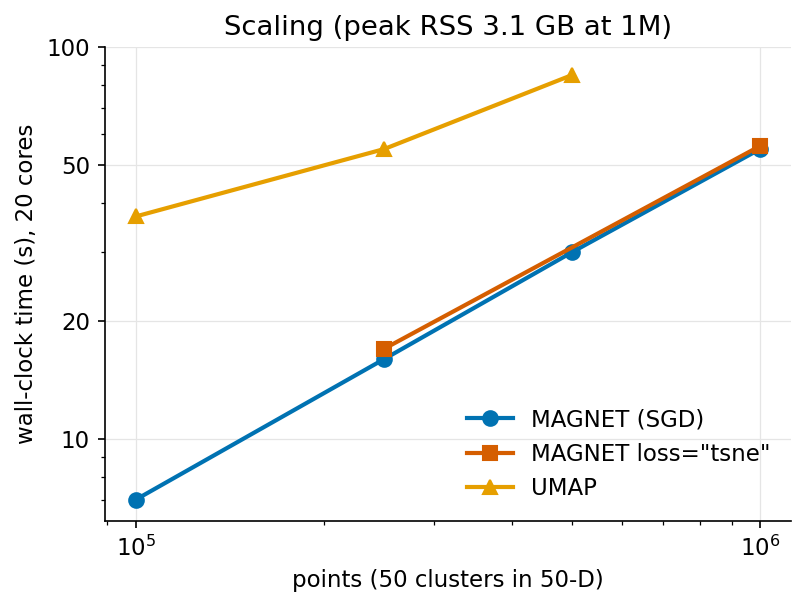
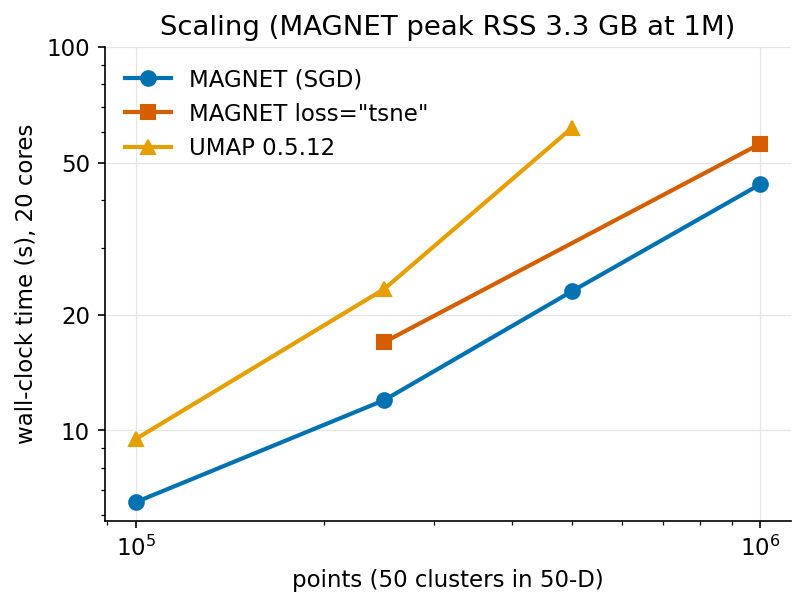
Benchmark against umap-learn 0.5.12 / pynndescent 0.7.0 with a correct timing protocol: numba warm-up on the data's dtype, 6000 points (NN-descent path) and the same random_state setting as the timed call; UMAP/densMAP without random_state (their parallel layout). Corrected numbers: UMAP MNIST 11 s 

diff --git a/paper/main.tex b/paper/main.tex
@@ -26,7 +26,7 @@ with one exponent: the near field of the attraction and the far field of the rep
 $L_1$ point ($b = 1/2$) under crowding and the $L_2$ point ($b = 1$) without, with a step at intrinsic
 dimension $q = m$; the repulsion is scale-free at $b_r = m/2$ (Cauchy in 2-D).
 (3) Splitting the exponent, a native neighbour search and a lock-free SGD give a layout of MNIST 70k in
-4.4~s with the best global structure of eleven methods; an FFT-exact repulsion gives $t$-SNE's local
+4.4~s (UMAP 0.5.12: 11~s) with the best global structure of eleven methods; an FFT-exact repulsion gives $t$-SNE's local
 structure in 9~s; their sequence (\texttt{loss="hybrid"}) leads both axes at once: 15-NN preservation
 0.353 (scikit-learn $t$-SNE 0.350, 196~s) with distance Spearman 0.444 (SGD 0.413) in 12.5~s.
 (4) The fade between local and global structure exists across the optimiser's scales, not inside one loss.
@@ -49,8 +49,8 @@ structure in 9~s; their sequence (\texttt{loss="hybrid"}) leads both axes at onc
 \centering\includegraphics[width=\textwidth]{layouts_mnist.png}
 \caption{MNIST 70k under six methods, same seed. Top: UMAP, openTSNE (FIt-SNE), PaCMAP. Bottom:
 \magnet{} sampled (SGD), exact (FFT repulsion), hybrid (SGD layout refined by the exact pass). Time,
-15-NN preservation and distance Spearman in the panel titles (single cold runs: UMAP's 75~s includes its
-JIT compilation, the benchmark table has 18~s). \todo{Fashion-MNIST version in the appendix.}}
+15-NN preservation and distance Spearman in the panel titles (single runs, numba compilation excluded).
+\todo{Fashion-MNIST version in the appendix.}}
 \label{fig:layouts}
 \end{figure}
 
@@ -143,12 +143,14 @@ the logs of benchmarks/theory; re-run with error bars.}}
 \begin{itemize}
 \item Data: MNIST 70k, Fashion-MNIST 70k, 20 newsgroups (18.8k $\times$ 300 SVD, cosine), 15 Gaussian
   blobs (10k $\times$ 200); graphs: SBM 30k nodes, Cora, US airports \todo{add graph table}.
-\item Methods (defaults): UMAP 0.5.11, densMAP, openTSNE 1.0.4, PaCMAP, TriMap, PHATE 2.0, h-NNE,
+\item Methods (defaults): UMAP 0.5.12, densMAP, openTSNE 1.0.4, PaCMAP, TriMap, PHATE 2.0, h-NNE,
   scikit-learn $t$-SNE (Barnes--Hut), $t$-SNE-CUDA 3.0.1 (GPU, RTX 2070); NCVis could not be built.
 \item Metrics: 15-NN preservation and trustworthiness (local); Spearman correlation of pairwise distances
   and random-triplet accuracy on 2000 points (global); 10-NN label accuracy; silhouette reported as
   \emph{compactness}, a look rather than a fidelity (it rises when neighbourhoods are squeezed).
 \item 20-core i9-9900X, 54~GB; 2 seeds (1 on Fashion-MNIST); seed noise on MNIST: 0.003 on both axes.
+  numba methods warmed up on the data's dtype and on 6000 points (NN-descent path) before the clock; UMAP
+  without \texttt{random\_state} (which would make its layout single-threaded, 49~s on MNIST).
 \end{itemize}
 
 \subsection{Main results}
@@ -259,7 +261,7 @@ SBM + chains & 0.449 & 0.484 & 0.532 & 0.571 & & \textbf{0.573} \\
 \section{Graphs}
 \begin{itemize}
 \item Same optimiser on an adjacency matrix (weights = similarities); mid-range partners from random
-  walks; SBM 30k nodes / 782k edges in 4.9~s vs 36~s UMAP, 10-NN accuracy 1.00 vs 0.26.
+  walks; SBM 30k nodes / 782k edges in 4.9~s vs 10~s UMAP, 10-NN accuracy 1.00 vs 0.26.
 \item \todo{Figure graph\_demo.png; table Cora / airports / SBM with edge preservation.}
 \end{itemize}
 

diff --git a/benchmarks/make_table.py b/benchmarks/make_table.py
@@ -3,14 +3,14 @@ import os, json, collections
 HERE = os.path.dirname(os.path.abspath(__file__))
 import numpy as np
 
-LABELS = {"umap": "UMAP 0.5.11", "opentsne": "openTSNE 1.0.4", "pacmap": "PaCMAP", "trimap": "TriMap", "sktsne": "sklearn t-SNE (Barnes-Hut)",
-          "densmap": "densMAP (umap-learn 0.5.11)", "phate": "PHATE 2.0", "hnne": "h-NNE", "tsnecuda": "t-SNE-CUDA 3.0.1 (GPU, RTX 2070)"}
+LABELS = {"umap": "UMAP 0.5.12", "opentsne": "openTSNE 1.0.4", "pacmap": "PaCMAP", "trimap": "TriMap", "sktsne": "sklearn t-SNE (Barnes-Hut)",
+          "densmap": "densMAP (umap-learn 0.5.12)", "phate": "PHATE 2.0", "hnne": "h-NNE", "tsnecuda": "t-SNE-CUDA 3.0.1 (GPU, RTX 2070)"}
 DATASETS = [("mnist70000", "MNIST (70k x 784)"), ("fmnist70000", "Fashion-MNIST (70k x 784)"),
             ("news20", "20 newsgroups (18.8k x 300 SVD, cosine)"), ("blobs10k", "15 Gaussian blobs (10k x 200)")]
 KEYS = [("time", "time (s)", False), ("knn15_preservation", "15-NN pres.", True), ("trustworthiness", "trust.", True),
         ("dist_spearman", "dist. Spearman", True), ("triplet_acc", "triplet acc.", True), ("knn_acc", "10-NN acc.", True),
         ("silhouette", "compactness*", True)]
-ORDER = ["MAGNET (SGD, default)", 'MAGNET (loss="tsne")', 'MAGNET (loss="hybrid")', "UMAP 0.5.11", "densMAP (umap-learn 0.5.11)", "openTSNE 1.0.4", "PaCMAP", "TriMap", "PHATE 2.0", "h-NNE", "sklearn t-SNE (Barnes-Hut)", "t-SNE-CUDA 3.0.1 (GPU, RTX 2070)"]
+ORDER = ["MAGNET (SGD, default)", 'MAGNET (loss="tsne")', 'MAGNET (loss="hybrid")', "UMAP 0.5.12", "densMAP (umap-learn 0.5.12)", "openTSNE 1.0.4", "PaCMAP", "TriMap", "PHATE 2.0", "h-NNE", "sklearn t-SNE (Barnes-Hut)", "t-SNE-CUDA 3.0.1 (GPU, RTX 2070)"]
 
 
 def name_of(r):

diff --git a/benchmarks/bench.py b/benchmarks/bench.py
@@ -28,7 +28,10 @@ def run(method, dataset, n=70000, tag="", plot=True, **kw):
     if method == "umap":
         import umap
         if not is_graph:
-            umap.UMAP(n_neighbors=5, n_epochs=20).fit_transform(np.random.rand(500, 10))  # numba warm-up
+            # numba warm-up on the data's dtype and the run's settings: a float64 warm-up leaves the float32 path to compile
+            # inside the timed call (25-69 s instead of 11 s on MNIST); 6000 points so that the NN-descent path compiles too,
+            # and the same random_state setting (with one, UMAP's layout is single-threaded: a different compiled variant)
+            umap.UMAP(n_neighbors=kw.get("n_neighbors", 15), n_epochs=20, metric=kw.get("metric", "euclidean"), random_state=kw.get("random_state")).fit_transform(np.random.rand(6000, 10).astype(data.dtype))
         t = time.time()
         Y = umap.UMAP(**kw).fit_transform(data if not is_graph else _graph_to_dist(data))
     elif method == "magnet":
@@ -57,7 +60,7 @@ def run(method, dataset, n=70000, tag="", plot=True, **kw):
         Y = TSNE(n_jobs=-1, init="pca", **kw).fit_transform(np.asarray(data, dtype=np.float32))
     elif method == "densmap":
         import umap
-        umap.UMAP(n_neighbors=5, n_epochs=20, densmap=True).fit_transform(np.random.rand(500, 10))  # numba warm-up
+        umap.UMAP(n_neighbors=kw.get("n_neighbors", 15), n_epochs=20, densmap=True, metric=kw.get("metric", "euclidean"), random_state=kw.get("random_state")).fit_transform(np.random.rand(6000, 10).astype(data.dtype))  # numba warm-up, same dtype
         t = time.time()
         Y = umap.UMAP(densmap=True, **kw).fit_transform(data)
     elif method == "phate":

diff --git a/benchmarks/scaling.py b/benchmarks/scaling.py
@@ -39,22 +39,14 @@ def main():
         m = MAGNET(loss="tsne", random_state=0, verbose=True)
         t = time.time(); Y = m.fit_transform(X); phases["fit_total"] = time.time() - t
     elif method == "magnet":
+        # the full default pipeline (an earlier version replayed the fit's internals by hand and drifted from it)
         from magnet import MAGNET
         m = MAGNET(random_state=0)
-        t = time.time(); P = m.build_graph(X); phases["knn+graph"] = time.time() - t
-        m.graph_ = P
-        from magnet import find_ab_params
-        m.a_, m.b_ = find_ab_params(m.spread, m.min_dist)
-        rng = np.random.default_rng(0)
-        t = time.time(); Y = m._initial_embedding(P, X, rng); phases["spectral_init"] = time.time() - t
-        t = time.time()
-        n_epochs = m._resolve_epochs(n)
-        head, tail, eps = m._edge_schedule(P, n_epochs); phases["edge_schedule"] = time.time() - t
-        t = time.time(); m._optimize(Y, head, tail, eps, P, n_epochs, 0, 1, m.mid_weight); phases["sgd"] = time.time() - t
-        phases["epochs"] = n_epochs
+        t = time.time(); Y = m.fit_transform(X); phases["fit_total"] = time.time() - t
+        phases["epochs"] = m.n_epochs_
     elif method == "umap":
         import umap
-        umap.UMAP(n_neighbors=5, n_epochs=20).fit_transform(np.random.rand(500, 10))
+        umap.UMAP(n_epochs=20, random_state=0).fit_transform(np.random.rand(6000, 10).astype(X.dtype))   # numba warm-up on the data's dtype, large enough for the NN-descent path
         t = time.time(); Y = umap.UMAP().fit_transform(X); phases["umap_total"] = time.time() - t
     else:
         raise ValueError(method)

diff --git a/paper/make_fig_layouts.py b/paper/make_fig_layouts.py
@@ -13,13 +13,16 @@ ds = sys.argv[1] if len(sys.argv) > 1 else "mnist"
 data, labels, name = LOADERS[ds](70000)
 labels = np.asarray(labels).astype(int)
 
+import umap
+umap.UMAP(n_epochs=20).fit_transform(np.random.rand(6000, 10).astype(data.dtype))   # numba warm-up outside the clock: same dtype, same
+# parallel setting (no random_state), enough points for the NN-descent path. Earlier renders timed the compilation too.
 def umap_(X):
-    import umap; return umap.UMAP(random_state=0).fit_transform(X)
+    return umap.UMAP().fit_transform(X)   # no random_state: with it UMAP's layout runs single-threaded (49 s instead of 10 s)
 def opentsne_(X):
     from openTSNE import TSNE; return np.asarray(TSNE(n_jobs=-1, random_state=0).fit(X))
 def pacmap_(X):
     import pacmap; return pacmap.PaCMAP(random_state=0).fit_transform(X)
-methods = [("UMAP", umap_), ("openTSNE (FIt-SNE)", opentsne_), ("PaCMAP", pacmap_),
+methods = [("UMAP 0.5.12", umap_), ("openTSNE (FIt-SNE)", opentsne_), ("PaCMAP", pacmap_),
            ("MAGNET (SGD)", lambda X: MAGNET(random_state=0).fit_transform(X)),
            ('MAGNET loss="tsne"', lambda X: MAGNET(loss="tsne", random_state=0).fit_transform(X)),
            ('MAGNET loss="hybrid"', lambda X: MAGNET(loss="hybrid", random_state=0).fit_transform(X))]

diff --git a/paper/make_fig_ablations.py b/paper/make_fig_ablations.py
@@ -63,10 +63,10 @@ plt.tight_layout(); plt.savefig(os.path.join(FIG, "hybrid.png"), dpi=150, bbox_i
 # ---------- Figure: scaling ----------
 fig, ax = plt.subplots(figsize=(5.5, 4.2))
 n = [1e5, 2.5e5, 5e5, 1e6]
-ax.plot(n, [7, 16, 30, 55], "o-", color=C["blue"], lw=2, ms=7, label="MAGNET (SGD)")
+ax.plot(n, [6.5, 12.0, 23.1, 43.9], "o-", color=C["blue"], lw=2, ms=7, label="MAGNET (SGD)")
 ax.plot([2.5e5, 1e6], [17, 56], "s-", color=C["verm"], lw=2, ms=7, label='MAGNET loss="tsne"')
-ax.plot(n[:3], [37, 55, 85], "^-", color=C["orange"], lw=2, ms=7, label="UMAP")
+ax.plot(n[:3], [9.5, 23.4, 61.7], "^-", color=C["orange"], lw=2, ms=7, label="UMAP 0.5.12")
 ax.set_xscale("log"); ax.set_yscale("log"); ax.set_xlabel("points (50 clusters in 50-D)"); ax.set_ylabel("wall-clock time (s), 20 cores")
-ax.set_yticks([10, 20, 50, 100]); ax.set_yticklabels([10, 20, 50, 100]); ax.legend(); ax.set_title("Scaling (peak RSS 3.1 GB at 1M)")
+ax.set_yticks([10, 20, 50, 100]); ax.set_yticklabels([10, 20, 50, 100]); ax.legend(); ax.set_title("Scaling (MAGNET peak RSS 3.3 GB at 1M)")
 plt.tight_layout(); plt.savefig(os.path.join(FIG, "scaling.png"), dpi=150, bbox_inches="tight"); plt.close()
 print("ok")

diff --git a/paper/tables/mnist.tex b/paper/tables/mnist.tex
@@ -5,8 +5,8 @@ method & time (s) & 15-NN pres. & trust. & dist. Spearman & triplet acc. & 10-NN
 MAGNET (SGD, default) & \textbf{4.4} & 0.193 & 0.957 & 0.413 & 0.644 & 0.967 \\
 MAGNET (\texttt{loss="tsne"}) & 9.2 & 0.349 & 0.966 & 0.348 & 0.627 & 0.966 \\
 MAGNET (\texttt{loss="hybrid"}) & 12.5 & \textbf{0.353} & 0.961 & \textbf{0.444} & \textbf{0.656} & 0.960 \\
-UMAP 0.5.11 & 18.2 & 0.116 & 0.951 & 0.300 & 0.607 & 0.967 \\
-densMAP  & 43.2 & 0.070 & 0.923 & 0.357 & 0.621 & 0.956 \\
+UMAP 0.5.12 & 11.2 & 0.117 & 0.951 & 0.297 & 0.606 & 0.967 \\
+densMAP  & 37.2 & 0.068 & 0.921 & 0.364 & 0.623 & 0.945 \\
 openTSNE 1.0.4 & 102.5 & 0.347 & 0.968 & 0.330 & 0.619 & 0.965 \\
 PaCMAP & 24.8 & 0.093 & 0.946 & 0.307 & 0.614 & \textbf{0.976} \\
 TriMap & 57.0 & 0.088 & 0.933 & 0.184 & 0.597 & 0.964 \\

diff --git a/paper/tables/fmnist.tex b/paper/tables/fmnist.tex
@@ -5,8 +5,8 @@ method & time (s) & 15-NN pres. & trust. & dist. Spearman & triplet acc. & 10-NN
 MAGNET (SGD, default) & \textbf{4.4} & 0.202 & 0.980 & 0.730 & 0.787 & 0.800 \\
 MAGNET (\texttt{loss="tsne"}) & 9.1 & 0.324 & 0.981 & 0.700 & 0.775 & 0.815 \\
 MAGNET (\texttt{loss="hybrid"}) & 10.5 & \textbf{0.328} & 0.979 & \textbf{0.752} & \textbf{0.799} & 0.814 \\
-UMAP 0.5.11 & 15.0 & 0.131 & 0.972 & 0.581 & 0.730 & 0.772 \\
-densMAP  & 41.4 & 0.070 & 0.954 & 0.582 & 0.729 & 0.756 \\
+UMAP 0.5.12 & 10.9 & 0.133 & 0.975 & 0.571 & 0.728 & 0.778 \\
+densMAP  & 38.9 & 0.071 & 0.955 & 0.583 & 0.729 & 0.755 \\
 openTSNE 1.0.4 & 98.2 & 0.323 & \textbf{0.983} & 0.617 & 0.732 & 0.817 \\
 PaCMAP & 24.2 & 0.099 & 0.971 & 0.581 & 0.729 & 0.773 \\
 TriMap & 55.0 & 0.091 & 0.965 & 0.672 & 0.772 & 0.750 \\

diff --git a/paper/tables/news20.tex b/paper/tables/news20.tex
@@ -5,8 +5,8 @@ method & time (s) & 15-NN pres. & trust. & dist. Spearman & triplet acc. & 10-NN
 MAGNET (SGD, default) & \textbf{1.3} & 0.134 & 0.760 & 0.059 & 0.529 & 0.508 \\
 MAGNET (\texttt{loss="tsne"}) & 4.4 & 0.184 & \textbf{0.776} & 0.110 & 0.541 & 0.526 \\
 MAGNET (\texttt{loss="hybrid"}) & 4.4 & 0.181 & 0.768 & 0.073 & 0.528 & 0.515 \\
-UMAP 0.5.11 & 5.9 & 0.111 & 0.739 & 0.001 & 0.521 & 0.512 \\
-densMAP  & 12.5 & 0.058 & 0.643 & 0.020 & 0.525 & 0.426 \\
+UMAP 0.5.12 & 2.7 & 0.098 & 0.718 & 0.099 & 0.537 & 0.497 \\
+densMAP  & 10.7 & 0.068 & 0.658 & 0.123 & 0.545 & 0.443 \\
 openTSNE 1.0.4 & 38.8 & 0.187 & 0.772 & 0.106 & 0.542 & \textbf{0.535} \\
 PaCMAP & 6.6 & 0.057 & 0.683 & -0.086 & 0.499 & 0.440 \\
 TriMap & 12.7 & 0.059 & 0.690 & 0.051 & 0.546 & 0.443 \\

diff --git a/benchmarks/full_table.py b/benchmarks/full_table.py
@@ -12,12 +12,12 @@ METHODS = [
     ("MAGNET (SGD, default)", "magnet", {}),
     ('MAGNET (loss="tsne")', "magnet", {"loss": "tsne"}),
     ('MAGNET (loss="hybrid")', "magnet", {"loss": "hybrid"}),
-    ("UMAP 0.5.11", "umap", {}),
+    ("UMAP 0.5.12", "umap", {}),
     ("openTSNE 1.0.4", "opentsne", {}),
     ("PaCMAP", "pacmap", {}),
     ("TriMap", "trimap", {}),
     ("sklearn t-SNE (Barnes-Hut)", "sktsne", {}),
-    ("densMAP (umap-learn 0.5.11)", "densmap", {}),
+    ("densMAP (umap-learn 0.5.12)", "densmap", {}),
     ("PHATE 2.0", "phate", {}),
     ("h-NNE", "hnne", {}),
     ("t-SNE-CUDA 3.0.1 (GPU, RTX 2070)", "tsnecuda", {}),

diff --git a/paper/tables/blobs.tex b/paper/tables/blobs.tex
@@ -5,8 +5,8 @@ method & time (s) & 15-NN pres. & trust. & dist. Spearman \\
 MAGNET (SGD, default) & \textbf{1.1} & 0.067 & 0.972 & \textbf{0.690} \\
 MAGNET (\texttt{loss="tsne"}) & 2.5 & \textbf{0.126} & 0.974 & 0.505 \\
 MAGNET (\texttt{loss="hybrid"}) & 2.5 & 0.124 & 0.974 & 0.684 \\
-UMAP 0.5.11 & 2.3 & 0.045 & 0.971 & 0.229 \\
-densMAP  & 7.8 & 0.033 & 0.969 & 0.178 \\
+UMAP 0.5.12 & 2.4 & 0.047 & 0.971 & 0.079 \\
+densMAP  & 7.5 & 0.032 & 0.968 & 0.127 \\
 openTSNE 1.0.4 & 19.4 & 0.109 & 0.975 & 0.382 \\
 PaCMAP & 4.1 & 0.033 & 0.971 & 0.666 \\
 TriMap & 7.6 & 0.033 & 0.972 & 0.648 \\

diff --git a/paper/make_tables.py b/paper/make_tables.py
@@ -13,7 +13,7 @@ def cell(x):
 
 def name(x):
     x = x.replace('loss="tsne"', r'\texttt{loss="tsne"}').replace('loss="hybrid"', r'\texttt{loss="hybrid"}')
-    return x.replace("_", r"\_").replace("(umap-learn 0.5.11)", "").replace("(GPU, RTX 2070)", "(GPU)")
+    return x.replace("_", r"\_").replace("(umap-learn 0.5.12)", "").replace("(GPU, RTX 2070)", "(GPU)")
 
 for sec in re.split(r"^## ", md, flags=re.M)[1:]:
     title, body = sec.split("\n", 1)
